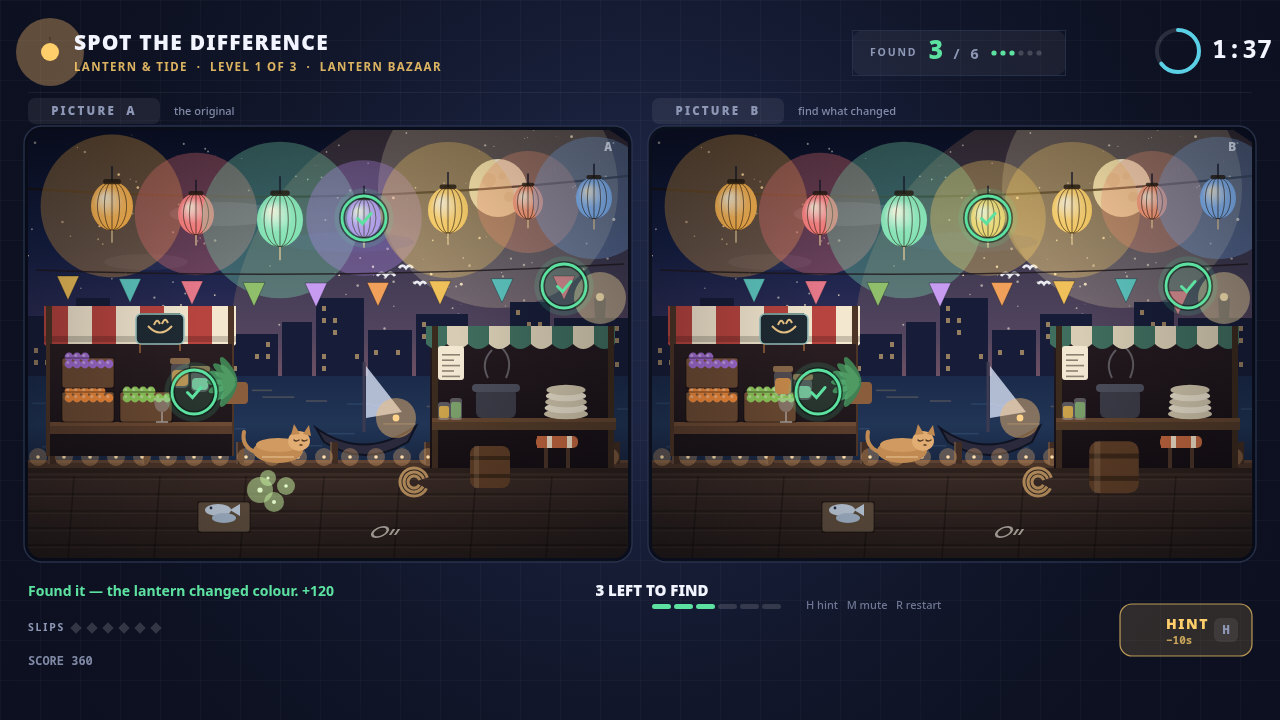
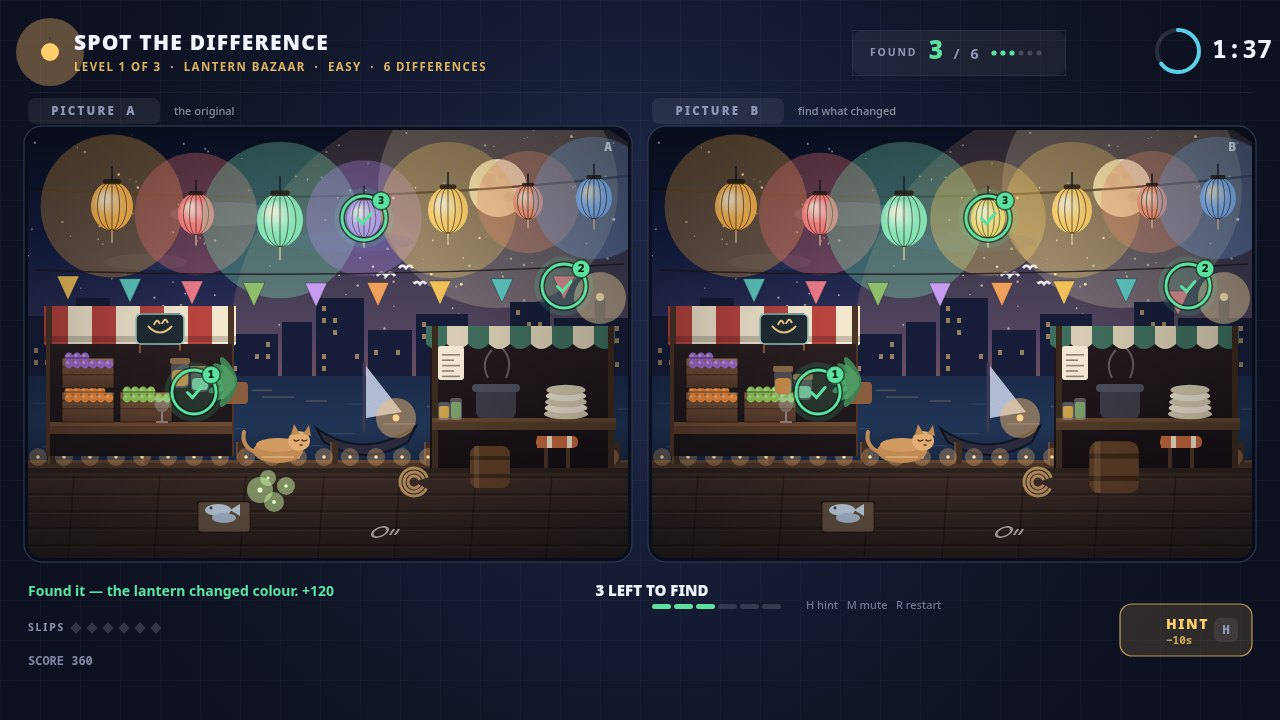
Number the finds, name the set's difficulty, and let the clock breathe when it runs low
The markers now carry the order they were found in, the header names the level's
tier and its difference count, and under a third of the clock the timer ring
pulses so the pressure is visible in a still frame.

diff --git a/game/src/render.js b/game/src/render.js
@@ -41,7 +41,7 @@ function drawLabel(ctx, side, rect, focused) {
   );
 }
 
-function drawFoundMarker(ctx, spot, age, pulse) {
+function drawFoundMarker(ctx, spot, age, pulse, order) {
   const grow = Math.max(0, Math.min(1, age * 5));
   const radius = 22 * (0.75 + 0.25 * grow);
   ctx.save();
@@ -71,6 +71,22 @@ function drawFoundMarker(ctx, spot, age, pulse) {
   ctx.lineWidth = 3;
   ctx.lineCap = 'round';
   ctx.stroke();
+  // The order the find came in, on a small chip off the ring: a run records itself on the picture.
+  if (order > 0) {
+    const chip = { x: spot.x + radius * 0.78, y: spot.y - radius * 0.78 };
+    ctx.beginPath();
+    ctx.arc(chip.x, chip.y, 9, 0, Math.PI * 2);
+    ctx.fillStyle = PALETTE.good;
+    ctx.fill();
+    ctx.strokeStyle = 'rgba(6, 20, 14, 0.55)';
+    ctx.lineWidth = 1.6;
+    ctx.stroke();
+    ctx.fillStyle = '#08210f';
+    ctx.font = `800 11px ${FONT_NUM}`;
+    ctx.textAlign = 'center';
+    ctx.textBaseline = 'middle';
+    ctx.fillText(String(order), chip.x, chip.y + 0.5);
+  }
   ctx.restore();
 }
 
@@ -144,7 +160,7 @@ export function drawPanel(ctx, side, view, time) {
     const difference = differences[index];
     if (!difference) continue;
     const spot = { x: rect.x + difference.spot.x, y: rect.y + difference.spot.y };
-    drawFoundMarker(ctx, spot, Math.min(1, (time - difference.foundAt) * 2), pulse);
+    drawFoundMarker(ctx, spot, Math.min(1, (time - difference.foundAt) * 2), pulse, found.indexOf(index) + 1);
   }
   for (const miss of misses) drawMissMarker(ctx, miss.position, time);
   if (hint) {

diff --git a/game/src/hud.js b/game/src/hud.js
@@ -20,6 +20,11 @@ function drawClock(ctx, state) {
   const y = 50;
   const ratio = Math.max(0, Math.min(1, state.timeLeft / RULES.startSeconds));
   const colour = ratio < 0.2 ? PALETTE.bad : ratio < 0.45 ? PALETTE.accent : PALETTE.sea;
+  // Under a third of the clock the ring starts to breathe: the pressure is visible, not just numeric.
+  if (ratio < 0.34) {
+    const beat = 0.5 + Math.sin(state.levelElapsed * 6) * 0.5;
+    glow(ctx, x, y + 1, 34, `rgba(229, 83, 75, ${0.10 + beat * 0.16})`);
+  }
   ctx.save();
   ctx.beginPath();
   ctx.arc(x, y + 1, 21, 0, Math.PI * 2);
@@ -79,7 +84,7 @@ function drawBrand(ctx, state) {
     align: 'left',
     track: 1.2,
   });
-  label(ctx, `LANTERN & TIDE  ·  LEVEL ${state.levelIndex + 1} OF ${state.levelCount}  ·  ${state.level.name.toUpperCase()}`, 74, 68, {
+  label(ctx, `LEVEL ${state.levelIndex + 1} OF ${state.levelCount}  ·  ${state.level.name.toUpperCase()}  ·  ${state.level.tier}  ·  ${state.level.count} DIFFERENCES`, 74, 68, {
     size: 11.5,
     weight: 600,
     colour: fade(PALETTE.accent, 0.85),

diff --git a/game/src/level-data.js b/game/src/level-data.js
@@ -12,6 +12,7 @@ export const LEVELS = [
     build: buildBazaar,
     count: 6,
     seconds: 150,
+    tier: 'EASY',
   },
   {
     id: 'tidepool',
@@ -20,6 +21,7 @@ export const LEVELS = [
     build: buildTidepool,
     count: 8,
     seconds: 165,
+    tier: 'MEDIUM',
   },
   {
     id: 'observatory',
@@ -28,5 +30,6 @@ export const LEVELS = [
     build: buildObservatory,
     count: 9,
     seconds: 180,
+    tier: 'HARD',
   },
 ];
